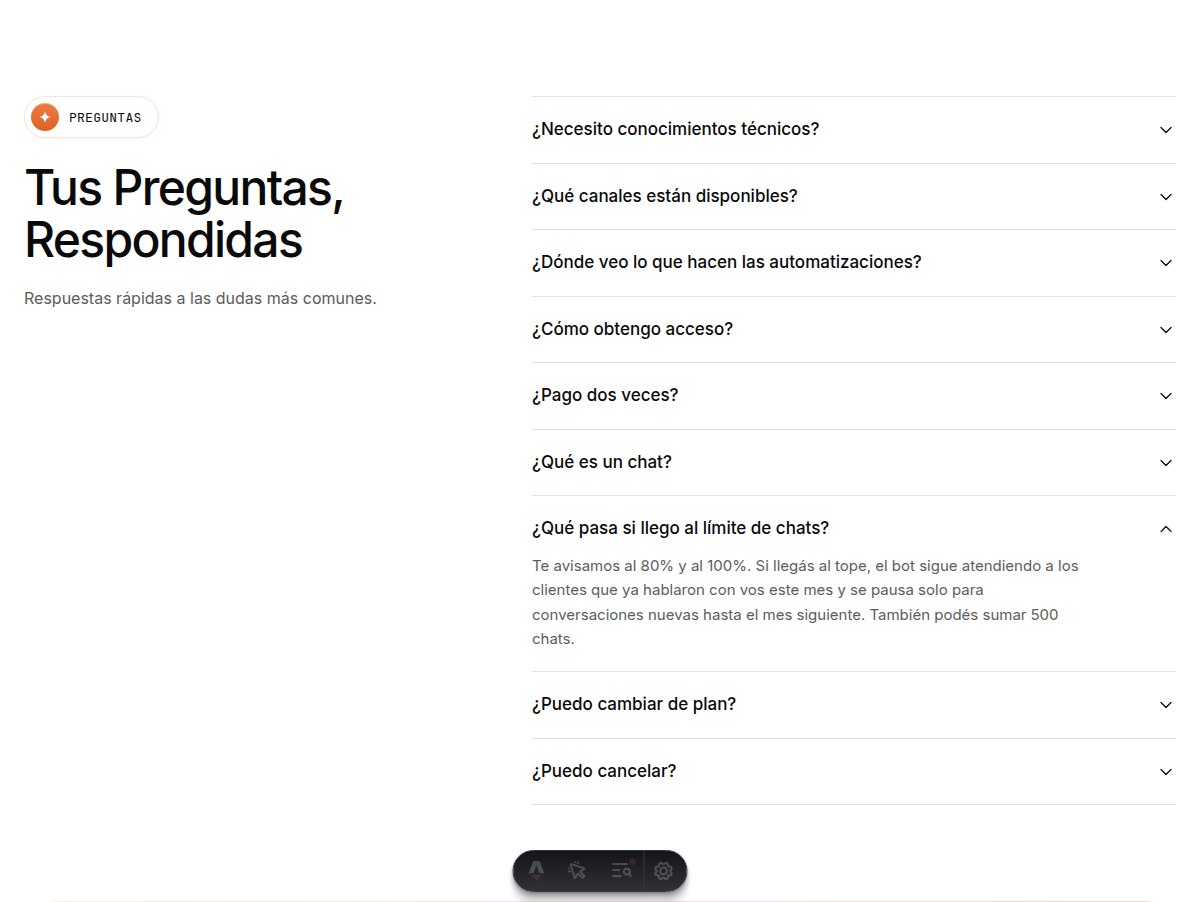
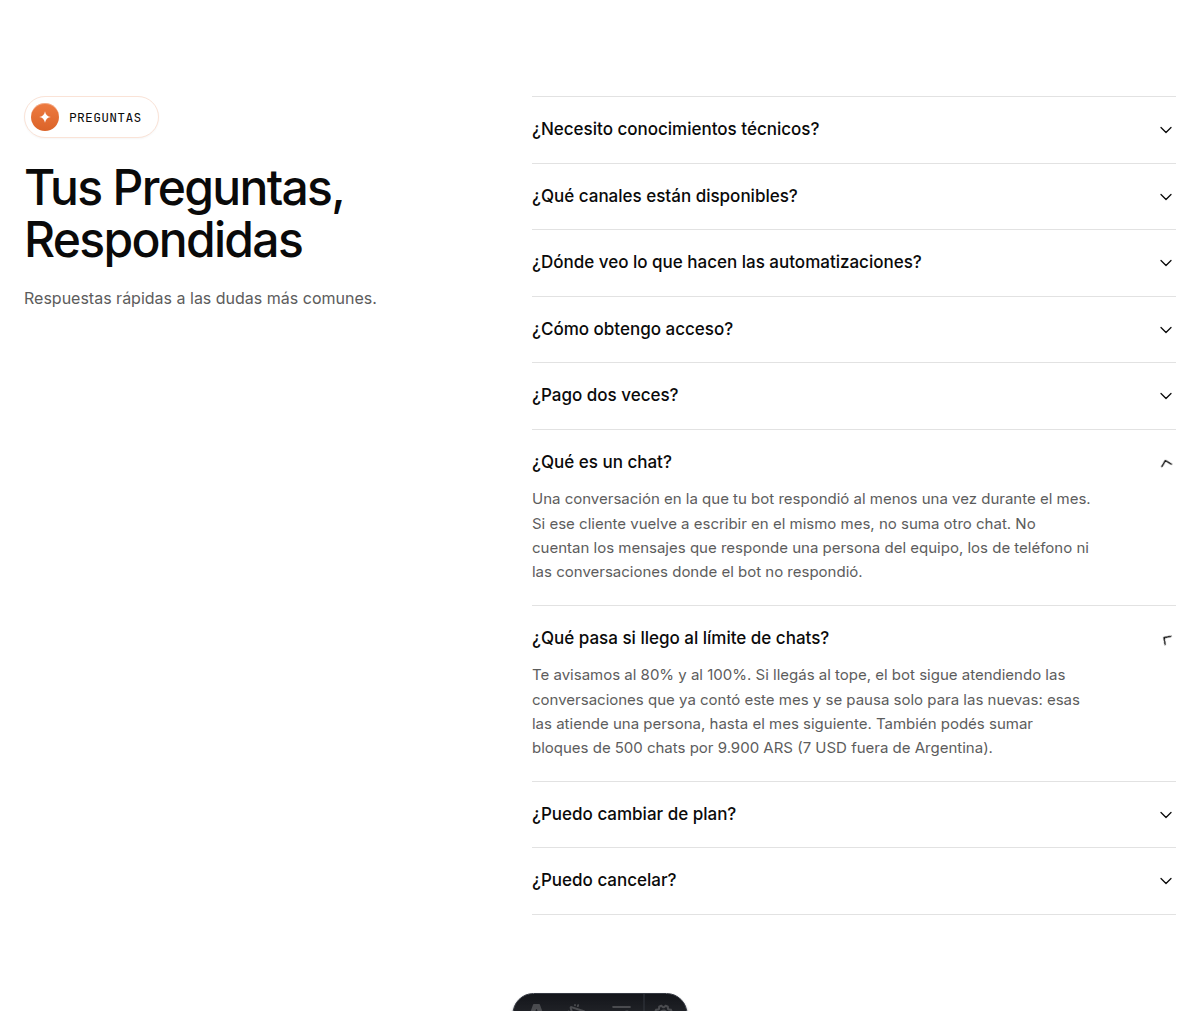
feat: match the chat FAQs to the live definition
A chat is one bot reply in the month. At the cap, only new conversations pause, and extra blocks cost 9.900 ARS or 7 USD.

diff --git a/src/i18n/es.ts b/src/i18n/es.ts
@@ -200,11 +200,11 @@ export const es: Dictionary = {
       },
       {
         q: '¿Qué es un chat?',
-        a: 'Una conversación con un cliente que tu bot respondió al menos una vez durante el mes. Si ese cliente vuelve a escribir en el mismo mes, no suma otro chat.',
+        a: 'Una conversación en la que tu bot respondió al menos una vez durante el mes. Si ese cliente vuelve a escribir en el mismo mes, no suma otro chat. No cuentan los mensajes que responde una persona del equipo, los de teléfono ni las conversaciones donde el bot no respondió.',
       },
       {
         q: '¿Qué pasa si llego al límite de chats?',
-        a: 'Te avisamos al 80% y al 100%. Si llegás al tope, el bot sigue atendiendo a los clientes que ya hablaron con vos este mes y se pausa solo para conversaciones nuevas hasta el mes siguiente. También podés sumar 500 chats.',
+        a: 'Te avisamos al 80% y al 100%. Si llegás al tope, el bot sigue atendiendo las conversaciones que ya contó este mes y se pausa solo para las nuevas: esas las atiende una persona, hasta el mes siguiente. También podés sumar bloques de 500 chats por 9.900 ARS (7 USD fuera de Argentina).',
       },
       {
         q: '¿Puedo cambiar de plan?',

diff --git a/src/i18n/en.ts b/src/i18n/en.ts
@@ -199,11 +199,11 @@ export const en = {
       },
       {
         q: 'What is a chat?',
-        a: "A conversation with a customer that your bot replied to at least once during the month. If that customer writes again in the same month, it doesn't count as another chat.",
+        a: "A conversation your bot replied to at least once during the month. If that customer writes again in the same month, it doesn't count as another chat. Replies from someone on your team, phone messages, and conversations the bot never replied to do not count.",
       },
       {
         q: 'What happens if I reach the chat limit?',
-        a: 'We warn you at 80% and at 100%. If you reach the cap, the bot keeps replying to customers it already handled this month and pauses only for new conversations until next month. You can also add 500 chats.',
+        a: 'We warn you at 80% and at 100%. If you reach the cap, the bot keeps handling the conversations it already counted this month and pauses only for new ones. A person handles those until next month. You can also add blocks of 500 chats for 9.900 ARS (7 USD outside Argentina).',
       },
       {
         q: 'Can I change plans?',
